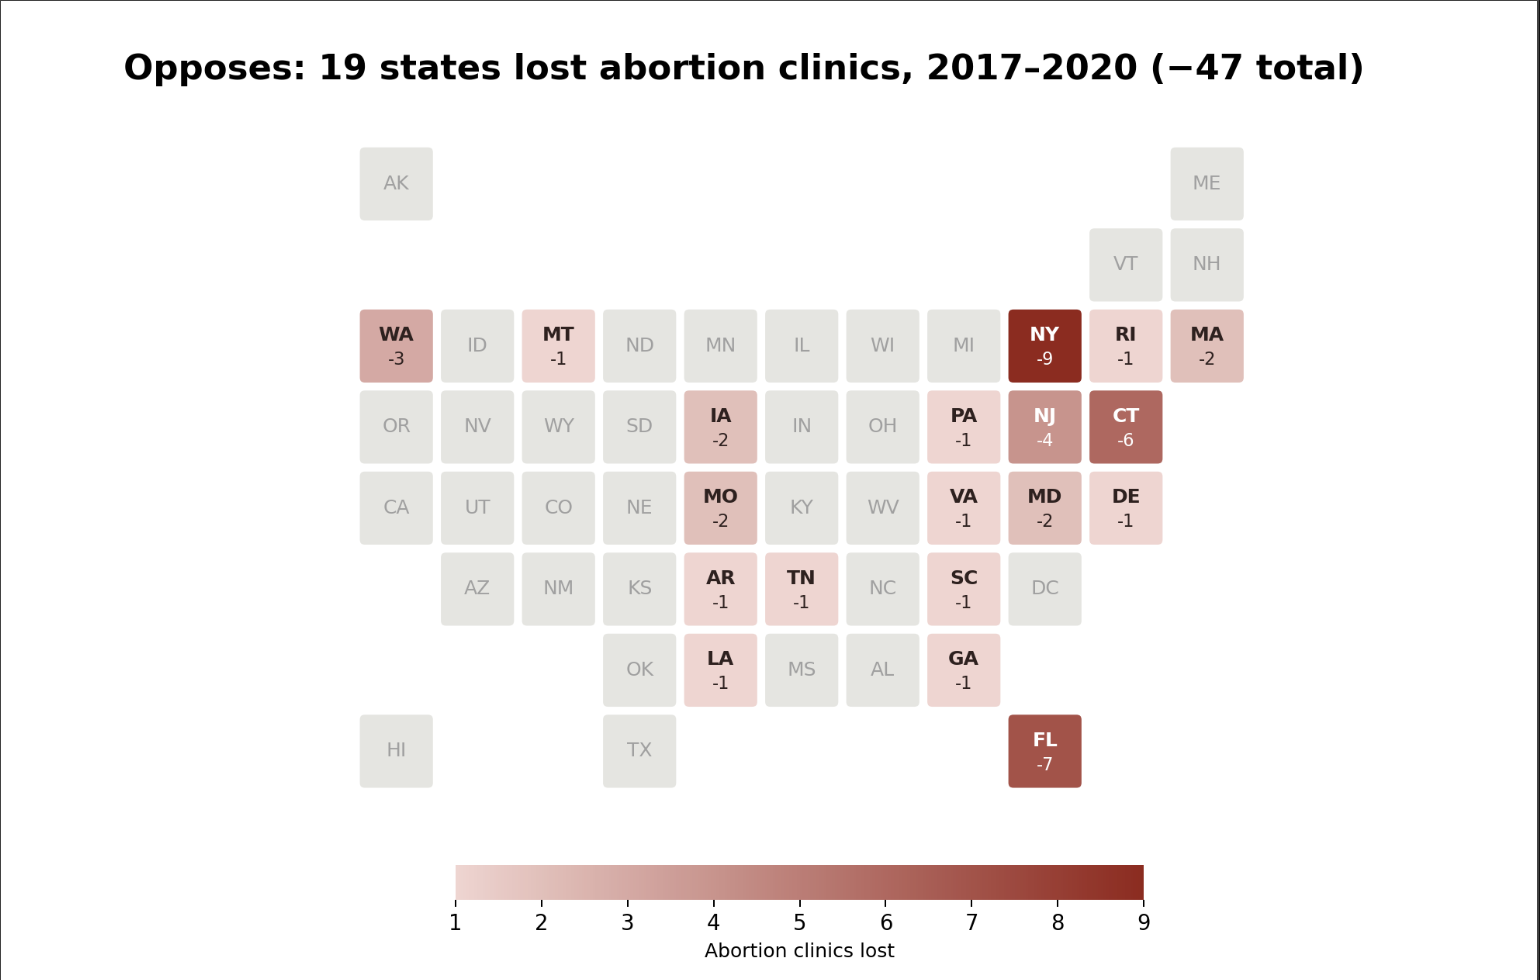
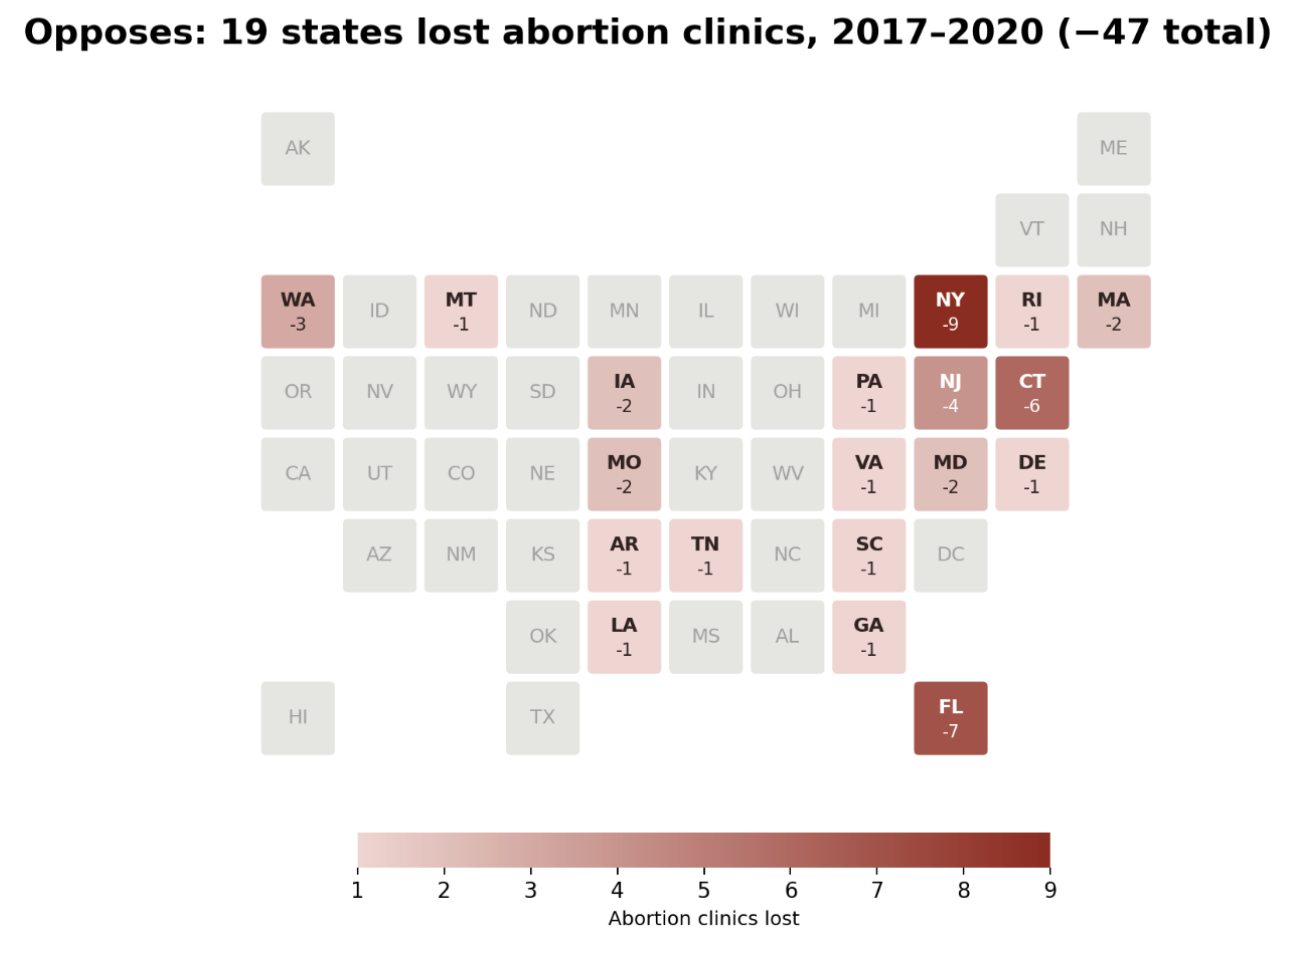
updated map formatting

diff --git a/project2/index.html b/project2/index.html
@@ -148,6 +148,11 @@ section { margin-block: 2.5rem; }
 li { margin-bottom: 1rem; }
 figure > figcaption { font: 500 .875rem/1.5 system-ui; }
 @media(max-width:600px) { h1 { font-size:2.2rem; } main { border-radius:.5rem; } }
+/* Match the supporting map title to the opposing map. */
+.supporting-chart { width: 78%; margin: 1rem auto; }
+.supporting-chart-title { font: 800 clamp(.85rem, 1.7vw, 1.4rem)/1.3 Arial, sans-serif; margin: 0 0 .8rem; }
+.supporting-map-window { overflow: hidden; }
+.supporting-map-window img { margin-top: -4.3%; }
 </style>
     </head>
 
@@ -167,11 +172,15 @@ Raynard Taneka — <a href="mailto:rtaneka@ucsd.edu">rtaneka@ucsd.edu</a></p>
             <h2>Proposition: Abortion clinic availability expanded in the United States between 2017 and 2020.</h2>
 <p><strong>Measure:</strong> Change in the number of abortion clinics between 2017 and 2020.<br>
 <strong>Dataset:</strong> <a href="https://dsc106.com/resources/data/GuttmacherInstituteAbortionDataByState.xlsx">Guttmacher Institute Abortion Data by State (Excel)</a></p>
+<p><strong>Design-decision scores:</strong> −2 = fully deceptive; +2 = fully earnest. Half-point scores are allowed; 0 indicates an undecided assessment.</p>
 <section>
                 <h3>FOR the Proposition</h3>
 
                 <figure>
-                    <img src="supporting_clinic_map.png" alt="U.S. tile map highlighting 15 states with clinic gains from 2017 to 2020; darker green indicates larger gains." />
+                    <div class="supporting-chart">
+                        <h4 class="supporting-chart-title">Supports: 15 states gained abortion clinics, 2017–2020 (+42 total)</h4>
+                        <div class="supporting-map-window"><img src="supporting_clinic_map.png" alt="U.S. tile map highlighting 15 states with clinic gains from 2017 to 2020; darker green indicates larger gains." /></div>
+                    </div>
                     <figcaption>15 states gained a combined 42 abortion clinics between 2017 and 2020. California had the largest gain, with 12 additional clinics.</figcaption>
                 </figure>
 
